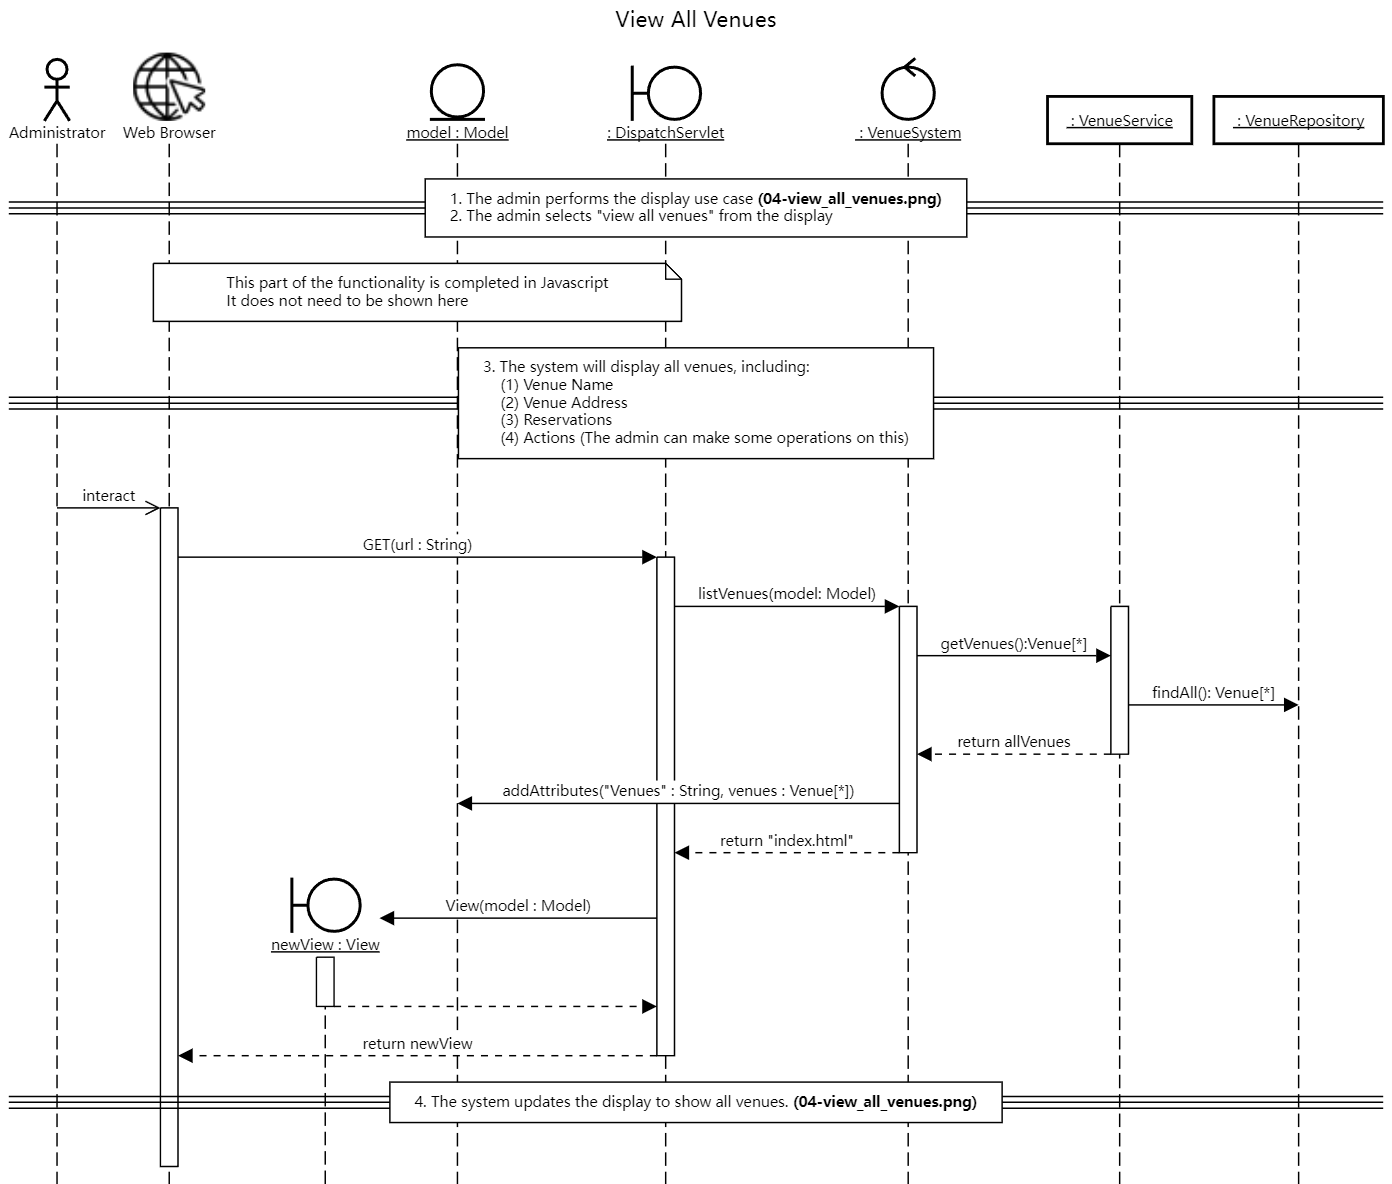
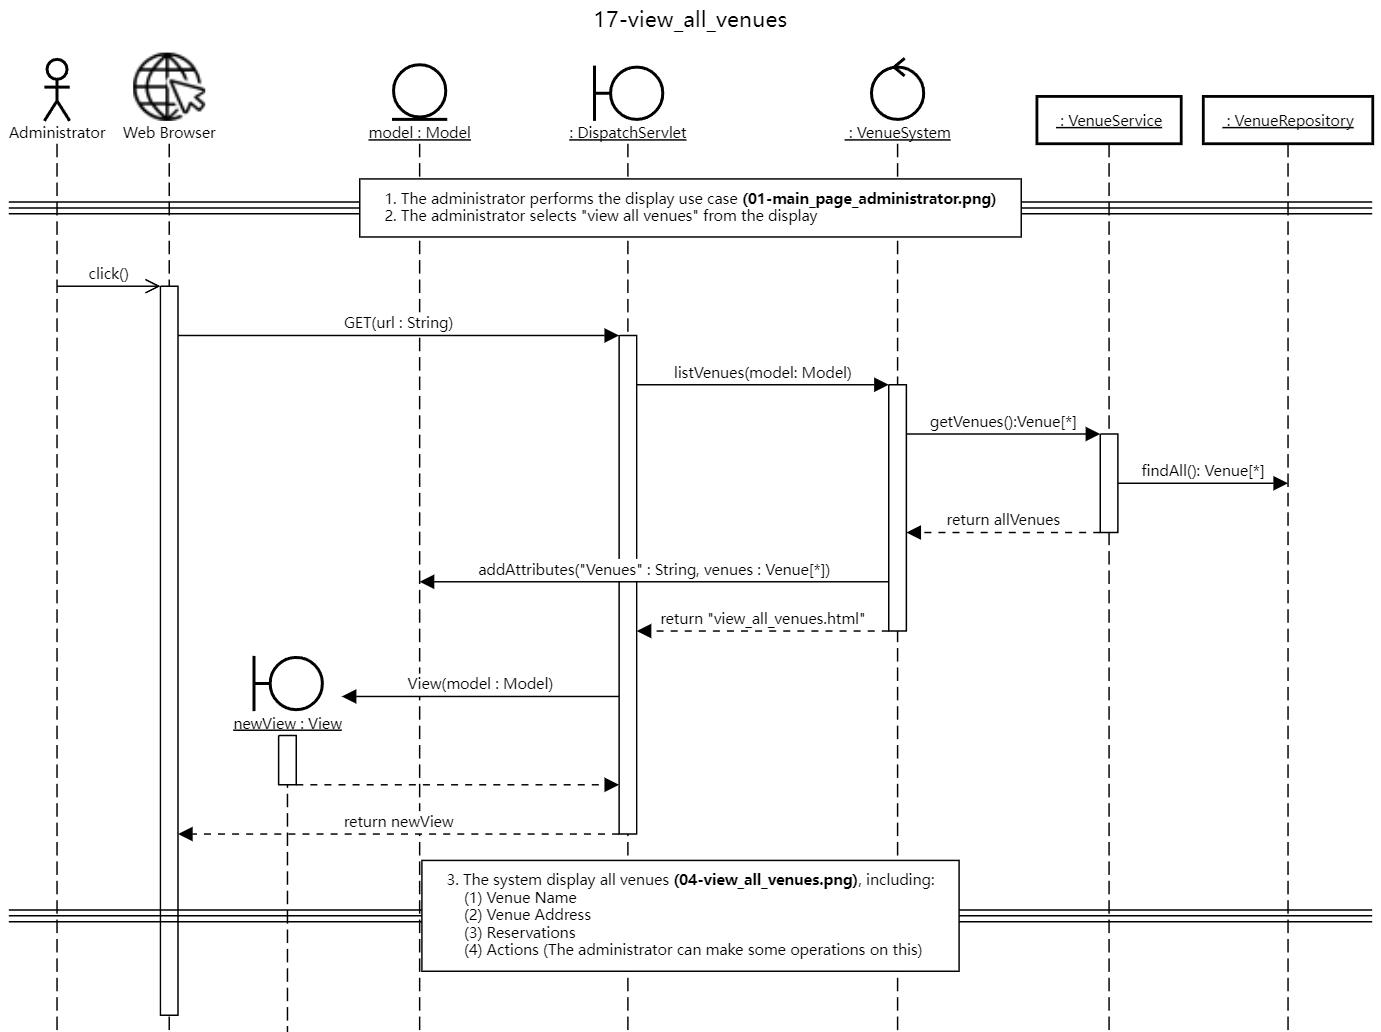
update use case

diff --git a/03-design/usecases/docs/18-delete_venue.md b/03-design/usecases/docs/18-delete_venue.md
@@ -3,13 +3,13 @@
 ## Basic Course of Events
 
 ### Course of Events
-- The administrator is shown the list venues page (04-view_all_venues.png) where system displays a list of existing venues.
-- The administrator selects the venue to delete.
-- The system highlights the venue to indicate it is selected.
-- The admin selects the delete functionality.
-- The system asks the administrator to confirm.
-- The administrator selects **Confirm**.
-- The system update the list venues page (04-view_all_venues.png) with this venue deleted.
+- 1.The administrator performs the display use case **(01-main_page_administrator.png)**.
+- 2.The administrator selects a venue to delete.
+- 3.The system highlights the venue to indicate it is selected.
+- 4.The administrator selects the delete functionality.
+- 5.The system asks the administrator to confirm **(Delete Venue)**.
+- 6.The administrator selects **Confirm**.
+- 7.The system updates the display to show the remaining venues to administrator, with the deleted venue absent. **(04-view_all_venues.png)**
 
 
 ### Sequence Diagram
@@ -20,13 +20,13 @@
 
 ### Do Not Delete
 
-- The administrator is shown the list venues page (04-view_all_venues.png) where system displays a list of existing venues.
+- The administrator is shown the list venues page (01-main_page_administrator.png) where system displays a list of existing venues.
 - The administrator selects the venue to delete.
 - The system highlights the venue to indicate it is selected.
-- The admin selects the delete functionality.
+- The administrator selects the delete functionality.
 - The system asks the administrator to confirm.
 - The administrator selects **Cancel**.
-- The system update the list venues page (04-view_all_venues.png) with this venue deleted.
+- The system updates the display to show all venues to administrator. **(04-view_all_venues.png)**
 
 ### Sequence Diagram-- Alternate Course of Events
 ![Do not delete](/03-design/sequence-diagrams/Administrator/18-delete_venue_alternative.png)

diff --git a/03-design/usecases/docs/17-view_all_venues.md b/03-design/usecases/docs/17-view_all_venues.md
@@ -3,14 +3,13 @@
 ## Basic Course of Events
 
 ### Course of events for **administrator**
-- 1.The admin performs the display use case(04-view_all_venues.png)
-- 2.The admin selects "view all venues" from the display
-- 3.The system will display all venues, including:
+- 1.The administrator performs the display use case. **(01-main_page_administrator.png)**
+- 2.The administrator selects "view all venues" from the display
+- 3.The system will display all venues **(04-view_all_venues.png)**, including:
     1.  Venue Name
     2.  Venue Address
     3.  Reservations   
-    4.  Actions (The admin can make some operations on this)
-- 5.The system updates the display to show all venues. (04-view_all_venues.png)
+    4.  Actions (The administrator can make some operations on this)
 
 ### Sequence Diagram
 

diff --git a/03-design/usecases/docs/20-view_events_history.md b/03-design/usecases/docs/20-view_events_history.md
@@ -3,16 +3,14 @@
 ## Basic Course of Events
 
 ### Course of Events
-- The admin performs the display use case (01-view_all_events.png).
-- The admin selects "Events History" from the display.
-- The system will display all event, including:
+- 1.The administrator performs the display use case (01-main_page_administrator.png).
+- 2.The administrator selects "Events History" from the display.
+- 3.The system will display all related events **(02-view_events_history.png)**, including:
     1.  Event Name   
     2.  Event Date   
     3.  Venue Name   
     4.  The number of Reservation   
-    5.  Delete (The admin can delete this event)
-- The system updates the display to show events history(01-view_all_events.png)
-
+    5.  Delete (The administrator can delete this event)
 
 ### Sequence Diagram
 

diff --git a/03-design/usecases/docs/19-view_venue_usage_history.md b/03-design/usecases/docs/19-view_venue_usage_history.md
@@ -3,11 +3,10 @@
 
 ## Basic Course of Events
 
-- 1.The admin performs the display use case (01-view_all_events.png).
-- 2.The admin selects "Usage History" from a displayed venue.
-- 3.The service queries this usage history among all events.
-- 4.The system retrieves and displays a list of events that have been hosted at that venue.
-
+- 1.The administrator performs the display use case. **(01-main_page_administrator.png)**
+- 2.The administrator selects "Usage History" from a displayed venue.
+- 3.The system will display all events held at this venue.
+- 4.The system updates the display to show all related events. **(05-view_venue_usage_history.png)**
 
 ### Sequence Diagram
 ![view_venue_usage_history](/03-design/sequence-diagrams/Administrator/19-view_venue_usage_history.png)
